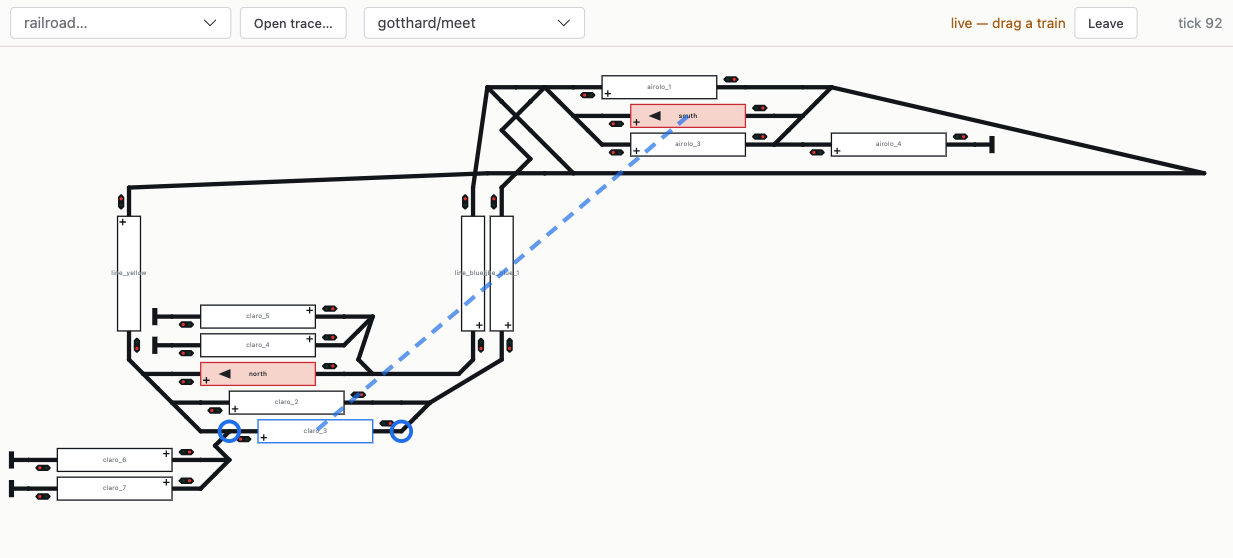
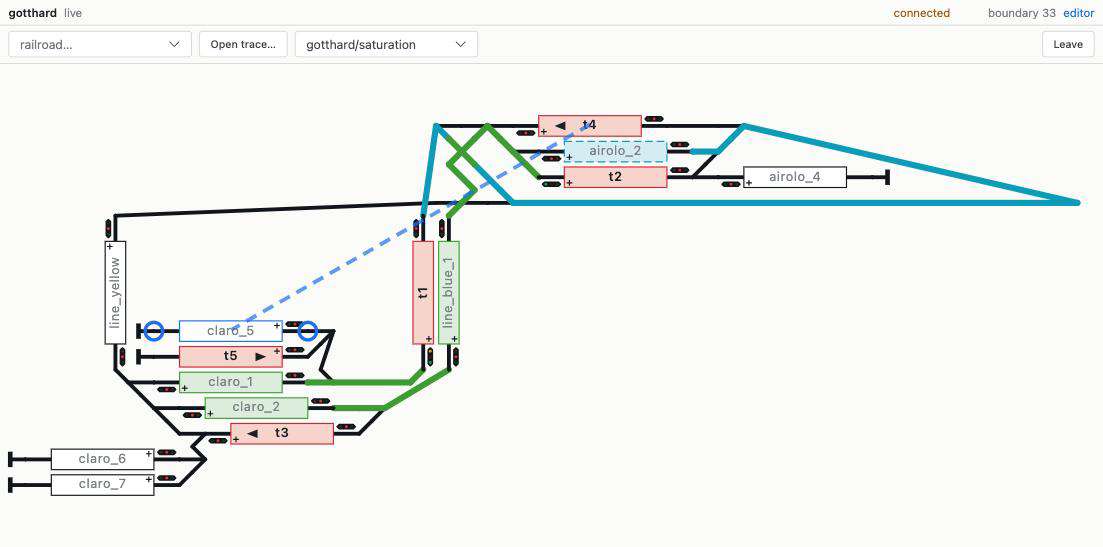
The screenshot shows the route colours the panel draws
`docs/ui/images/live-drag.png` was captured before route lighting became two
colours. It showed a committed route in one orange, and the page beside it has
said green and cyan since.

Recaptured from a live session on `gotthard/saturation`: two committed routes
under way, green where the dispatcher holds the lock and cyan where the
resource is on the route and not locked, the lit wires between the transits as
well as the transits themselves, signals at the block ends, and a drag in
flight from `t4` to `claro_5`'s middle third with a marker on each arrival end.

The caption says what the new picture shows. The prose around it — points in
their commanded position, a signal per block end, no aspect derived here — is
what the picture still illustrates, and is unchanged.

Refs #155

diff --git a/docs/ui/PANEL.md b/docs/ui/PANEL.md
@@ -138,7 +138,7 @@ simply two different counts.
 An end that leads nowhere carries no signal and the dispatcher does not name
 it, so the panel draws none — no rule here, just an end absent from the map.
 
-![A live session mid-run: a drag from south to claro_3's middle third](images/live-drag.png)
+![A live session mid-run: two committed routes, green where the dispatcher holds the lock and cyan where it does not, and a drag from t4 to claro_5's middle third](images/live-drag.png)
 
 ## What it does
 
